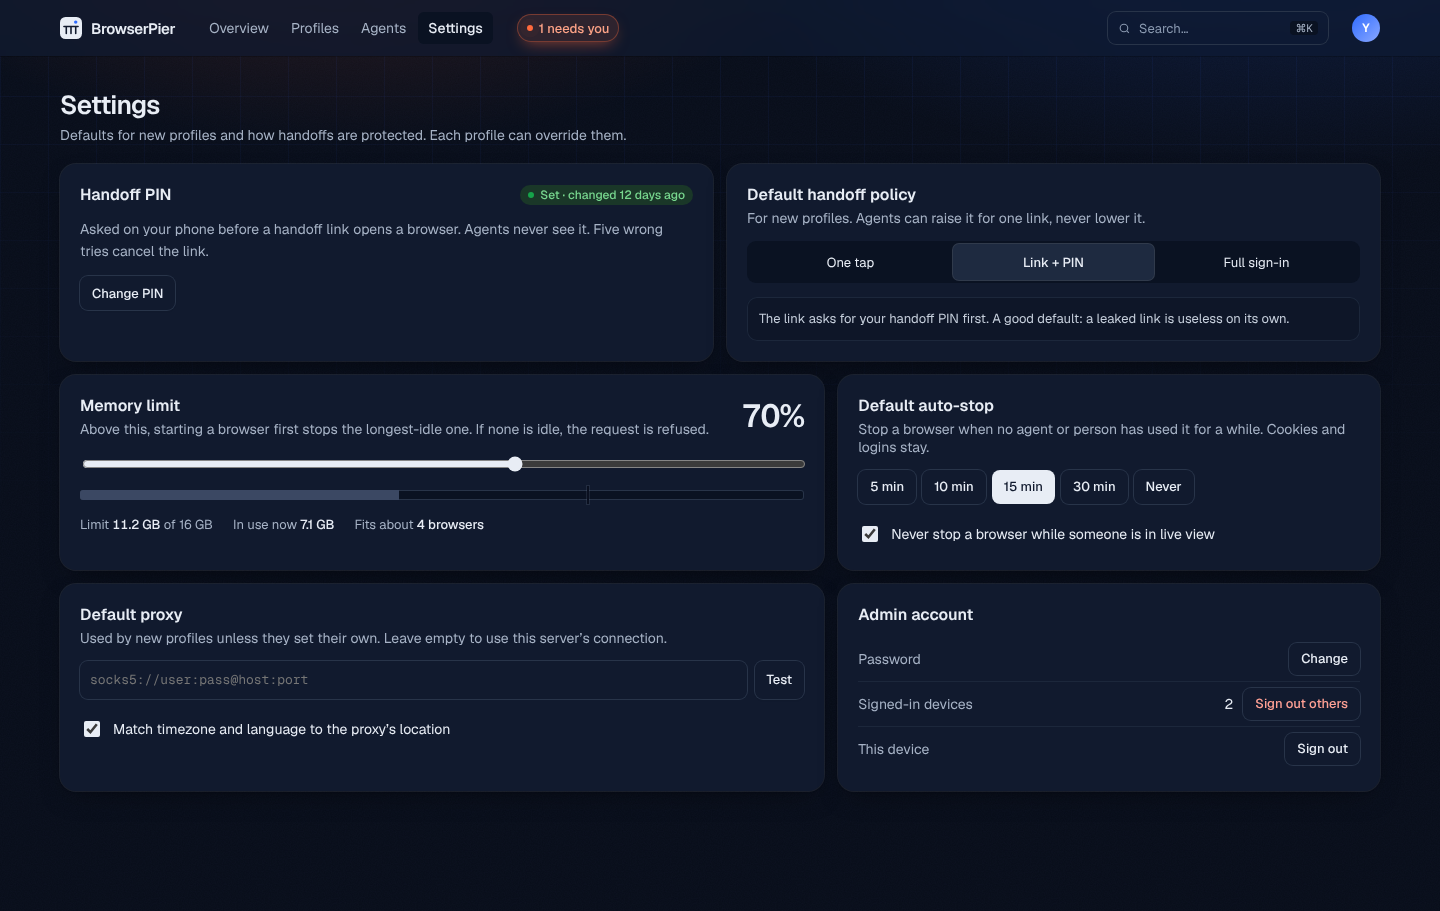
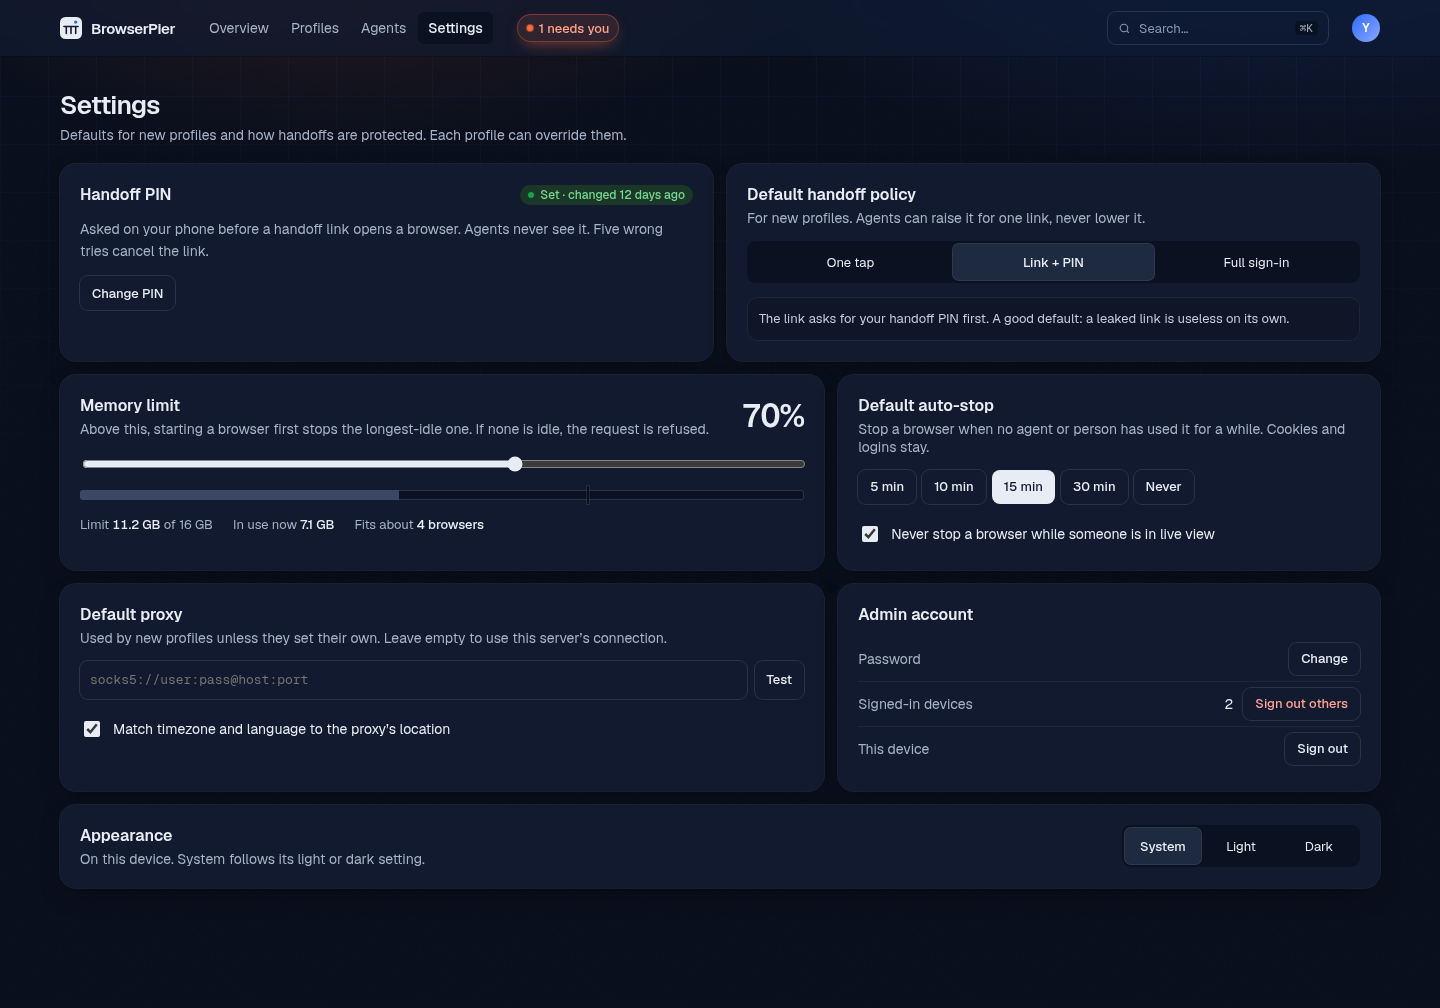
PROJ-55: the Settings design screens show Appearance

diff --git a/design/screens/settings.html b/design/screens/settings.html
@@ -152,6 +152,19 @@ input[type=range]:focus{box-shadow:none!important}
           <div style="min-height: 44px; display: flex; align-items: center; justify-content: space-between; gap: 12px; border-top: 1px solid #EEF2F7"><dt style="font-size: 14px; color: #475569">This device</dt><dd style="margin: 0"><a href="login.html" style="min-height: 32px; display: flex; align-items: center; padding: 0 12px; border-radius: 8px; box-shadow: 0 0 0 1px #E2E8F0; font-size: 13px; font-weight: 500; text-decoration: none">Sign out</a></dd></div>
         </dl>
       </section>
+
+      <!-- Appearance -->
+      <section class="g-cell" aria-labelledby="st-look" style="--s: 12; padding: 20px; background: #FFFFFF; border-radius: 16px; box-shadow: 0 0 0 1px rgba(37,64,140,0.07), 0 1px 2px rgba(37,64,140,0.06), 0 10px 28px -12px rgba(37,64,140,0.20); display: flex; flex-wrap: wrap; align-items: center; justify-content: space-between; gap: 12px 24px">
+        <div style="display: flex; flex-direction: column; gap: 4px">
+          <h2 id="st-look" style="margin: 0; font-size: 16px; font-weight: 600">Appearance</h2>
+          <p style="margin: 0; font-size: 14px; color: #475569">On this device. System follows its light or dark setting.</p>
+        </div>
+        <div role="radiogroup" aria-labelledby="st-look" style="flex: none; display: flex; gap: 2px; padding: 3px; background: #F1F5F9; border-radius: 9px">
+          <sc-for list="{{themes}}" as="t" hint-placeholder-count="3">
+            <button type="button" role="radio" onClick="{{t.pick}}" aria-checked="{{t.on}}" style="min-width: 76px; min-height: 36px; padding: 0 10px; background: {{t.bg}}; border: 0; border-radius: 6px; box-shadow: {{t.ring}}; color: #0F172A; font-family: inherit; font-size: 13px; font-weight: {{t.weight}}; cursor: pointer">{{t.title}}</button>
+          </sc-for>
+        </div>
+      </section>
     </div>
   </main>
 
@@ -173,7 +186,7 @@ class Component extends DCLogic {
   constructor(props) {
     super(props);
     this.saved = { ram: 70, policy: 'pin', idle: 15 };
-    this.state = { ...this.saved, pin: 'idle', proxyTested: false, toast: null };
+    this.state = { ...this.saved, pin: 'idle', proxyTested: false, toast: null, theme: 'system' };
   }
   flash(msg) {
     this.setState({ toast: msg });
@@ -215,6 +228,7 @@ class Component extends DCLogic {
           pick: () => this.setState({ idle: m })
         };
       }),
+      themes: [['system', 'System'], ['light', 'Light'], ['dark', 'Dark']].map(([id, title]) => ({ title, ...seg(id === s.theme), on: id === s.theme ? 'true' : 'false', pick: () => { this.setState({ theme: id }); this.flash('Appearance saved'); } })),
       proxyTested: s.proxyTested,
       testProxy: () => this.setState({ proxyTested: true }),
       dirty: dirty && !s.toast,

diff --git a/design/screens-dark/settings.html b/design/screens-dark/settings.html
@@ -152,6 +152,19 @@ input[type=range]:focus{box-shadow:none!important}
           <div style="min-height: 44px; display: flex; align-items: center; justify-content: space-between; gap: 12px; border-top: 1px solid #1C273B"><dt style="font-size: 14px; color: #A7B3C6">This device</dt><dd style="margin: 0"><a href="login.html" style="min-height: 32px; display: flex; align-items: center; padding: 0 12px; border-radius: 8px; box-shadow: 0 0 0 1px #283449; font-size: 13px; font-weight: 500; text-decoration: none">Sign out</a></dd></div>
         </dl>
       </section>
+
+      <!-- Appearance -->
+      <section class="g-cell" aria-labelledby="st-look" style="--s: 12; padding: 20px; background: #111A2E; border-radius: 16px; box-shadow: 0 0 0 1px rgba(148,163,184,0.14), 0 1px 2px rgba(0,0,0,0.156), 0 10px 28px -12px rgba(0,0,0,0.52); display: flex; flex-wrap: wrap; align-items: center; justify-content: space-between; gap: 12px 24px">
+        <div style="display: flex; flex-direction: column; gap: 4px">
+          <h2 id="st-look" style="margin: 0; font-size: 16px; font-weight: 600">Appearance</h2>
+          <p style="margin: 0; font-size: 14px; color: #A7B3C6">On this device. System follows its light or dark setting.</p>
+        </div>
+        <div role="radiogroup" aria-labelledby="st-look" style="flex: none; display: flex; gap: 2px; padding: 3px; background: #0A1222; border-radius: 9px">
+          <sc-for list="{{themes}}" as="t" hint-placeholder-count="3">
+            <button type="button" role="radio" onClick="{{t.pick}}" aria-checked="{{t.on}}" style="min-width: 76px; min-height: 36px; padding: 0 10px; background: {{t.bg}}; border: 0; border-radius: 6px; box-shadow: {{t.ring}}; color: #E8EDF5; font-family: inherit; font-size: 13px; font-weight: {{t.weight}}; cursor: pointer">{{t.title}}</button>
+          </sc-for>
+        </div>
+      </section>
     </div>
   </main>
 
@@ -173,7 +186,7 @@ class Component extends DCLogic {
   constructor(props) {
     super(props);
     this.saved = { ram: 70, policy: 'pin', idle: 15 };
-    this.state = { ...this.saved, pin: 'idle', proxyTested: false, toast: null };
+    this.state = { ...this.saved, pin: 'idle', proxyTested: false, toast: null, theme: 'system' };
   }
   flash(msg) {
     this.setState({ toast: msg });
@@ -215,6 +228,7 @@ class Component extends DCLogic {
           pick: () => this.setState({ idle: m })
         };
       }),
+      themes: [['system', 'System'], ['light', 'Light'], ['dark', 'Dark']].map(([id, title]) => ({ title, ...seg(id === s.theme), on: id === s.theme ? 'true' : 'false', pick: () => { this.setState({ theme: id }); this.flash('Appearance saved'); } })),
       proxyTested: s.proxyTested,
       testProxy: () => this.setState({ proxyTested: true }),
       dirty: dirty && !s.toast,

diff --git a/design/DESIGN.md b/design/DESIGN.md
@@ -112,7 +112,7 @@ Every profile shows an icon next to its name (Overview list 28px, Profiles cards
 
 Dark is a second theme of the same system, not an inverted copy. The four surface levels, the blue/orange split and every rule above still hold. Reference screens are in `screens-dark/` (open them the same way as `screens/`), renders in `screenshots-dark/`.
 
-**Choosing the theme:** follows the operating system by default (`prefers-color-scheme`). Settings has an Appearance choice: System, Light or Dark, remembered per device. The phone handoff page follows the system (and the saved choice if that device has one).
+**Choosing the theme:** follows the operating system by default (`prefers-color-scheme`). Settings has an Appearance choice: System, Light or Dark, remembered per device. It is the last, full-width row of Settings, with the same segmented control as the handoff policy, and it saves as soon as you pick (no unsaved-changes bar). The phone handoff page follows the system (and the saved choice if that device has one).
 
 ### Tokens
 
